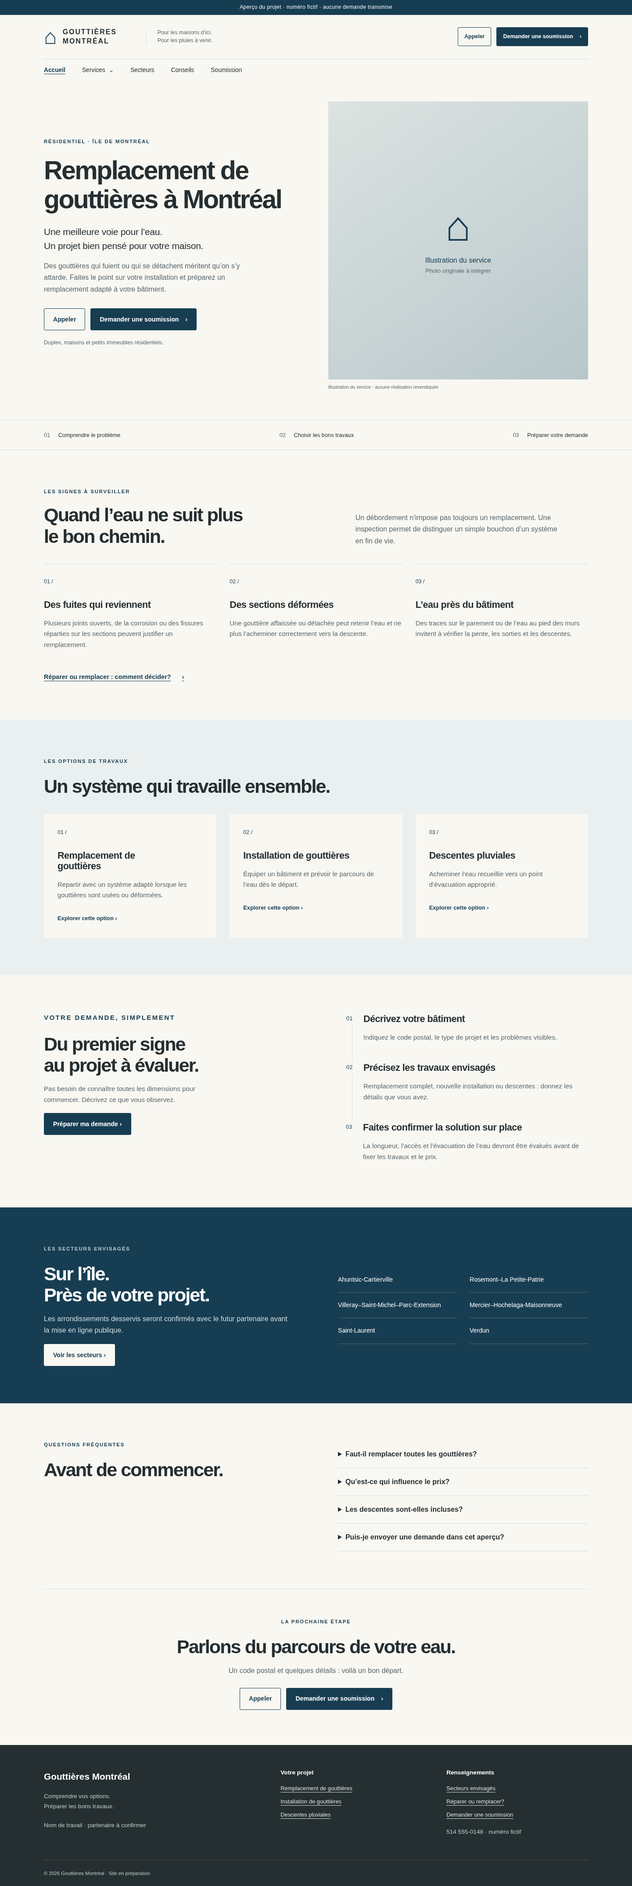
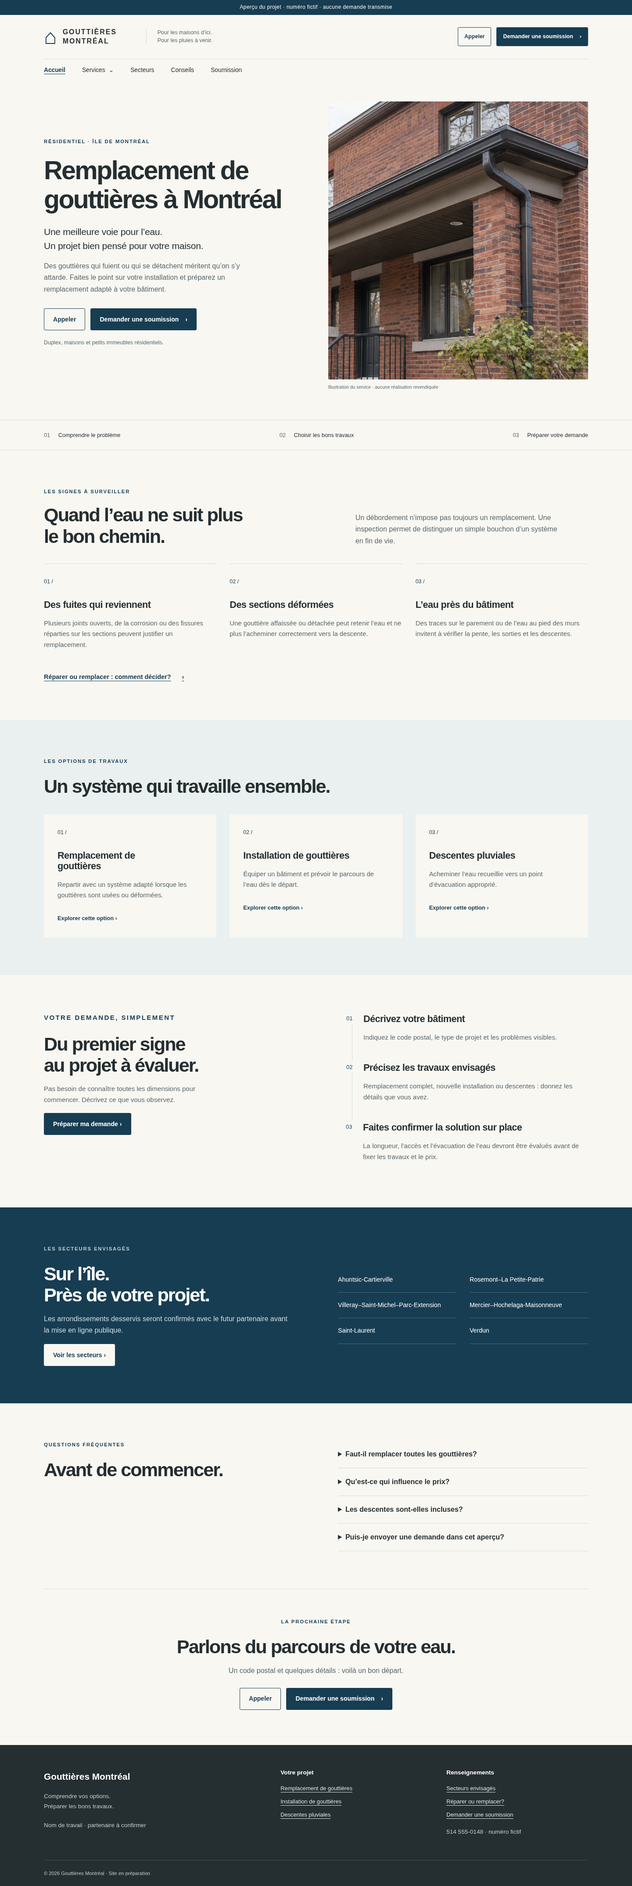
feat: integrate original gutter photos and refresh previews

Changed region(s): [[0.5, 0.0312, 0.9375, 0.2184]]

diff --git a/src/styles/global.css b/src/styles/global.css
@@ -1,3 +1,3 @@
-:root{--ink:#252e30;--blue:#173d52;--paper:#f8f7f2;--muted:#58666b;--line:#d8dedc;--soft:#eaf0ef}*{box-sizing:border-box}html{scroll-behavior:smooth;scroll-padding-bottom:110px}body{margin:0;background:var(--paper);color:var(--ink);font-family:Arial,Helvetica,sans-serif;line-height:1.65}a{color:inherit;text-underline-offset:4px}button,input,textarea,select{font:inherit}button,a,summary{-webkit-tap-highlight-color:transparent}button,summary{cursor:pointer}:focus-visible{outline:3px solid #bb6a23;outline-offset:5px}h1,h2,h3,p,figure{margin:0}h1,h2,h3{line-height:1.12;letter-spacing:-.045em}h1{font-size:clamp(2.7rem,4.1vw,4.45rem);font-weight:700}h2{font-size:clamp(2rem,3vw,3rem);font-weight:600}h3{font-size:1.35rem;letter-spacing:-.025em}p{margin:1.1rem 0;color:var(--muted)}.wrap{width:min(1240px,calc(100% - 96px));margin-inline:auto}.preview-notice{text-align:center;background:var(--blue);color:#fff;font-size:.75rem;padding:7px 16px;letter-spacing:.035em}.header-top{display:flex;align-items:center;gap:30px;padding-block:26px}.brand{display:flex;gap:12px;align-items:center;text-decoration:none;font-size:.86rem;line-height:1.3;letter-spacing:.12em}.brand strong{display:block;font-size:1.2rem;letter-spacing:.09em}.brand-mark{font-size:3rem;color:var(--blue);line-height:1}.header-note{font-size:.78rem;line-height:1.4;flex:1;margin:0;padding-left:25px;border-left:1px solid var(--line)}.actions{display:flex;flex-wrap:wrap;gap:12px;align-items:center}.button{display:inline-flex;align-items:center;justify-content:center;gap:15px;min-height:50px;padding:13px 20px;border:1px solid var(--blue);border-radius:3px;font-size:.88rem;font-weight:600;text-decoration:none;line-height:1.35}.button:hover{filter:brightness(.9)}.primary{background:var(--blue);color:white}.outline{background:transparent;color:var(--blue)}.light{background:var(--paper);color:var(--blue);border-color:var(--paper)}.compact .button{min-height:43px;font-size:.78rem;padding:10px 14px}.compact .phone-number{display:none}nav{display:flex;gap:38px;align-items:center;border-top:1px solid var(--line);padding-block:14px;font-size:.86rem}nav>a,summary{text-decoration:none}nav a[aria-current=page]{font-weight:700;color:var(--blue);text-decoration:underline}.services-menu{position:relative}.services-menu summary{list-style:none}.services-menu summary:after{content:'⌄';margin-left:8px}.services-menu>div{position:absolute;z-index:5;background:var(--paper);border:1px solid var(--line);padding:12px;min-width:255px;top:38px;box-shadow:0 12px 25px #173d5215}.services-menu a{display:block;padding:9px;text-decoration:none}.services-menu a:hover{background:var(--soft)}.hero{display:grid;grid-template-columns:1fr 1fr;gap:55px;align-items:center;padding-block:45px 65px}.eyebrow{color:var(--blue);font-weight:700;font-size:.71rem;letter-spacing:.16em;margin:0 0 23px}.hero h1{max-width:570px}.hero-copy>p:not(.eyebrow){max-width:480px}.lead{font-size:1.32rem;line-height:1.5;color:var(--ink);letter-spacing:-.015em;margin-top:25px}.hero .actions{margin-top:30px}.hero .actions .phone-number{display:none}.fine{font-size:.78rem}.service-photo{min-width:0;position:relative}.service-photo picture,.service-photo img{display:block;width:100%}.service-photo img{object-fit:cover;aspect-ratio:1/1.07;object-position:67% center;border-radius:3px}.service-photo figcaption{font-size:.65rem;margin-top:9px;color:var(--muted)}.photo-pending{aspect-ratio:1/1.07;background:linear-gradient(145deg,#dce3e1,#b8c7cb);display:flex;flex-direction:column;justify-content:center;align-items:center;border-radius:3px}.photo-pending>span{font-size:6rem;line-height:1;color:var(--blue)}.photo-pending p{color:var(--blue);margin-bottom:0}.photo-pending small{color:var(--muted)}.principles{border-block:1px solid var(--line)}.principles>.wrap{display:flex;justify-content:space-between;gap:20px;padding-block:23px}.principles span{color:var(--muted);font-size:.8rem}.principles strong{color:var(--ink);margin-left:15px;font-weight:500}.section{padding-block:85px}.section-heading{display:grid;grid-template-columns:1.15fr 1fr;gap:0 100px;align-items:end;margin-bottom:38px}.section-heading .eyebrow{grid-column:1/-1;margin-bottom:20px}.section-heading p:not(.eyebrow){margin:0;max-width:460px}.cards{display:grid;grid-template-columns:repeat(3,1fr);gap:30px}.cards article{padding:30px 0;border-top:1px solid var(--line)}.number{font-size:.78rem;display:block;color:var(--blue);margin-bottom:30px}.cards h3{max-width:250px}.cards p{font-size:.93rem}.text-link{display:inline-flex;gap:25px;align-items:center;font-size:.9rem;color:var(--blue);font-weight:600}.tinted{background:var(--soft)}.service-cards{margin-top:40px}.service-cards>a{padding:30px;background:var(--paper);border-radius:3px;text-decoration:none;border:1px solid transparent}.service-cards>a:hover{border-color:var(--blue)}.service-cards .text-link{margin-top:12px;font-size:.8rem}.steps,.sectors-intro,.faq{display:grid;grid-template-columns:1fr 1fr;gap:100px}.steps>div>p{max-width:400px}.steps ol{margin:0;padding-left:32px;counter-reset:steps;list-style:none}.steps li{position:relative;padding:0 0 24px 25px;border-left:1px solid var(--line);counter-increment:steps}.steps li:before{content:'0' counter(steps);position:absolute;left:-17px;top:0;background:var(--paper);color:var(--blue);font-size:.8rem;padding:3px}.steps li:last-child{border:0;padding-bottom:0}.steps li h3{padding-top:3px}.steps p{font-size:.94rem}.blue{background:var(--blue);color:white}.blue p{color:#cedde2}.blue .eyebrow{color:#b9ced8}.sector-list{list-style:none;padding:0;margin:0;display:grid;grid-template-columns:1fr 1fr;gap:0 30px;align-content:center}.sector-list li{padding:17px 0;border-bottom:1px solid #ffffff38;font-size:.88rem}.faq details{border-bottom:1px solid var(--line);padding:19px 0}.faq summary{font-weight:600;line-height:1.5;padding-right:20px}.faq details p{font-size:.92rem}.closing{border-top:1px solid var(--line);padding-block:65px 80px;text-align:center}.closing .actions{justify-content:center;margin-top:25px}.closing .phone-number{display:none}footer{background:#252e30;color:white;padding-top:55px}.footer-grid{display:grid;grid-template-columns:1.5fr 1fr 1fr;gap:55px}footer p,footer small{color:#c0cdcf;font-size:.85rem}.footer-brand{font-size:1.3rem;font-weight:600;text-decoration:none}footer h2{font-size:.85rem;letter-spacing:0;margin-bottom:18px}footer .footer-grid>div>a:not(.footer-brand){display:block;font-size:.8rem;color:#dbe4e5;margin-block:9px}.footer-bottom{border-top:1px solid #ffffff25;margin-top:35px;padding-block:20px;font-size:.7rem;color:#c0cdcf}.mobile-actions{display:none}.skip{position:absolute;left:12px;top:-100px;padding:12px;background:white;z-index:20}.skip:focus{top:10px}dialog{border:1px solid var(--line);border-radius:5px;background:var(--paper);color:var(--ink);max-width:min(480px,90vw);padding:30px}dialog::backdrop{background:#162d3bc0}dialog h2{font-size:1.8rem}.article-head{padding-block:65px 45px;max-width:1000px}.article-head h1{max-width:850px}.article-head>p{max-width:740px}.article-layout{display:flex;gap:65px;align-items:flex-start;padding-bottom:85px}.prose{max-width:760px}.prose section{margin-bottom:42px}.prose h2,.sectors-page h2{font-size:1.8rem}.prose aside{border-top:1px solid var(--line);padding-top:35px}.article-layout>.service-photo{flex:1;min-width:30%;position:sticky;top:25px}.article-layout:has(.service-photo)>.prose{flex:1;max-width:650px}.sectors-page{padding-top:0;max-width:1000px}.sectors-page .sector-list{margin:25px 0 55px}.sectors-page li{border-color:var(--line)}.quote-layout{display:grid;grid-template-columns:1fr 1fr;gap:85px;padding-block:65px 85px}.quote-layout h1{font-size:clamp(2.6rem,4vw,4rem)}.recipient{border-top:1px solid var(--line);margin-top:35px;padding-top:25px}.recipient h2{font-size:1.2rem;letter-spacing:-.02em}.recipient p{font-size:.9rem}.form-card{background:white;border:1px solid var(--line);padding:32px;border-radius:4px}.form-notice{background:var(--soft);padding:15px;font-size:.86rem;margin-top:0}label{display:block;font-size:.88rem;font-weight:600;margin:18px 0 6px}label span{font-weight:400}input,select,textarea{display:block;width:100%;border:1px solid #849297;border-radius:3px;padding:11px;background:white;color:var(--ink)}textarea{resize:vertical}form small{font-size:.75rem;color:var(--muted)}form>.button{margin-top:23px;width:100%}button:disabled{opacity:.6;cursor:wait}#form-status:empty{display:none}#form-status{font-size:.9rem;background:var(--soft);padding:15px}.consent{display:flex;gap:10px;font-weight:400}.consent input{width:18px;flex-shrink:0;margin-top:6px}@media(min-width:1500px){.hero{padding-block:65px 80px}}@media(max-width:1000px){.wrap{width:calc(100% - 48px)}.header-note{display:none}.header-top{justify-content:space-between}.hero{gap:28px}.hero .actions{gap:10px}.section-heading{gap:0 45px}.cards{gap:20px}.service-cards>a{padding:22px}.steps,.sectors-intro,.faq{gap:40px}.quote-layout{gap:35px}.article-layout{gap:35px}.footer-grid{gap:25px}}@media(max-width:700px){body{padding-bottom:calc(82px + env(safe-area-inset-bottom))}.wrap{width:calc(100% - 40px)}.header-top{padding-block:20px}.header-top>.actions{display:none}.brand{font-size:.73rem}.brand strong{font-size:1rem}.brand-mark{font-size:2.5rem}nav{gap:0;justify-content:space-between;font-size:.76rem;padding-block:13px}.services-menu>div{left:-65px;top:32px}.hero{grid-template-columns:1fr;gap:28px;padding-block:35px}.hero h1{font-size:clamp(2.35rem,11.8vw,2.9rem);max-width:480px}.eyebrow{font-size:.64rem;margin-bottom:19px}.lead{font-size:1.16rem;margin-top:20px}.hero-copy>p{font-size:.94rem}.hero .actions{align-items:stretch}.hero .button{font-size:.78rem;padding-inline:13px}.hero .fine{font-size:.75rem}.service-photo img,.photo-pending{aspect-ratio:1.15/1}.service-photo img{object-position:68% center}.principles>.wrap{display:grid;gap:10px;padding-block:20px}.principles span{font-size:.76rem}.section{padding-block:52px}.section-heading{display:block}.section-heading>p:not(.eyebrow){margin-top:20px}.cards{grid-template-columns:1fr;gap:0}.cards article{padding-block:25px}.cards h3{max-width:none}.number{margin-bottom:18px}.cards p{margin-bottom:0}.service-cards{gap:14px;margin-top:28px}.service-cards>a{padding:25px}.service-cards .text-link{margin-top:22px}.steps,.sectors-intro,.faq{grid-template-columns:1fr;gap:35px}.steps ol{padding-left:17px}.sector-list{grid-template-columns:1fr}.sectors-intro .sector-list{grid-template-columns:1fr 1fr;gap:0 20px}.sector-list li{font-size:.8rem}.faq{gap:20px}.closing{padding-block:50px}.closing h2{font-size:2rem}.closing .button{font-size:.77rem;padding-inline:12px}.closing .actions{gap:8px}.footer-grid{grid-template-columns:1fr;gap:30px}.footer-grid>div{border-bottom:1px solid #ffffff25;padding-bottom:20px}.footer-bottom{margin-top:10px}.mobile-actions{position:fixed;bottom:0;left:0;right:0;z-index:10;display:block;background:var(--paper);border-top:1px solid var(--line);padding:12px 15px calc(12px + env(safe-area-inset-bottom))}.mobile-actions .actions{display:grid;grid-template-columns:.65fr 1.35fr;gap:10px}.mobile-actions .button{min-height:48px;font-size:.76rem;padding:10px 8px}.article-head{padding-block:40px 30px}.article-head h1{font-size:2.65rem}.article-layout{display:flex;flex-direction:column;padding-bottom:55px;gap:25px}.article-layout>.service-photo{position:static;width:100%;order:-1}.prose h2,.sectors-page h2{font-size:1.65rem}.prose .actions{align-items:stretch;flex-direction:column}.prose .phone-number{display:none}.quote-layout{grid-template-columns:1fr;gap:30px;padding-block:40px 55px}.form-card{padding:23px}.sectors-page{padding-top:0}.sectors-page .sector-list{margin-top:20px}}@media(prefers-reduced-motion:reduce){html{scroll-behavior:auto}}
+:root{--ink:#252e30;--blue:#173d52;--paper:#f8f7f2;--muted:#58666b;--line:#d8dedc;--soft:#eaf0ef}*{box-sizing:border-box}html{scroll-behavior:smooth;scroll-padding-bottom:110px}body{margin:0;background:var(--paper);color:var(--ink);font-family:Arial,Helvetica,sans-serif;line-height:1.65}a{color:inherit;text-underline-offset:4px}button,input,textarea,select{font:inherit}button,a,summary{-webkit-tap-highlight-color:transparent}button,summary{cursor:pointer}:focus-visible{outline:3px solid #bb6a23;outline-offset:5px}h1,h2,h3,p,figure{margin:0}h1,h2,h3{line-height:1.12;letter-spacing:-.045em}h1{font-size:clamp(2.7rem,4.1vw,4.45rem);font-weight:700}h2{font-size:clamp(2rem,3vw,3rem);font-weight:600}h3{font-size:1.35rem;letter-spacing:-.025em}p{margin:1.1rem 0;color:var(--muted)}.wrap{width:min(1240px,calc(100% - 96px));margin-inline:auto}.preview-notice{text-align:center;background:var(--blue);color:#fff;font-size:.75rem;padding:7px 16px;letter-spacing:.035em}.header-top{display:flex;align-items:center;gap:30px;padding-block:26px}.brand{display:flex;gap:12px;align-items:center;text-decoration:none;font-size:.86rem;line-height:1.3;letter-spacing:.12em}.brand strong{display:block;font-size:1.2rem;letter-spacing:.09em}.brand-mark{font-size:3rem;color:var(--blue);line-height:1}.header-note{font-size:.78rem;line-height:1.4;flex:1;margin:0;padding-left:25px;border-left:1px solid var(--line)}.actions{display:flex;flex-wrap:wrap;gap:12px;align-items:center}.button{display:inline-flex;align-items:center;justify-content:center;gap:15px;min-height:50px;padding:13px 20px;border:1px solid var(--blue);border-radius:3px;font-size:.88rem;font-weight:600;text-decoration:none;line-height:1.35}.button:hover{filter:brightness(.9)}.primary{background:var(--blue);color:white}.outline{background:transparent;color:var(--blue)}.light{background:var(--paper);color:var(--blue);border-color:var(--paper)}.compact .button{min-height:43px;font-size:.78rem;padding:10px 14px}.compact .phone-number{display:none}nav{display:flex;gap:38px;align-items:center;border-top:1px solid var(--line);padding-block:14px;font-size:.86rem}nav>a,summary{text-decoration:none}nav a[aria-current=page]{font-weight:700;color:var(--blue);text-decoration:underline}.services-menu{position:relative}.services-menu summary{list-style:none}.services-menu summary:after{content:'⌄';margin-left:8px}.services-menu>div{position:absolute;z-index:5;background:var(--paper);border:1px solid var(--line);padding:12px;min-width:255px;top:38px;box-shadow:0 12px 25px #173d5215}.services-menu a{display:block;padding:9px;text-decoration:none}.services-menu a:hover{background:var(--soft)}.hero{display:grid;grid-template-columns:1fr 1fr;gap:55px;align-items:center;padding-block:45px 65px}.eyebrow{color:var(--blue);font-weight:700;font-size:.71rem;letter-spacing:.16em;margin:0 0 23px}.hero h1{max-width:570px}.hero-copy>p:not(.eyebrow){max-width:480px}.lead{font-size:1.32rem;line-height:1.5;color:var(--ink);letter-spacing:-.015em;margin-top:25px}.hero .actions{margin-top:30px}.hero .actions .phone-number{display:none}.fine{font-size:.78rem}.service-photo{min-width:0;position:relative}.service-photo picture,.service-photo img{display:block;width:100%}.service-photo img{height:auto;object-fit:cover;aspect-ratio:1/1.07;object-position:67% center;border-radius:3px}.service-photo figcaption{font-size:.65rem;margin-top:9px;color:var(--muted)}.photo-pending{aspect-ratio:1/1.07;background:linear-gradient(145deg,#dce3e1,#b8c7cb);display:flex;flex-direction:column;justify-content:center;align-items:center;border-radius:3px}.photo-pending>span{font-size:6rem;line-height:1;color:var(--blue)}.photo-pending p{color:var(--blue);margin-bottom:0}.photo-pending small{color:var(--muted)}.principles{border-block:1px solid var(--line)}.principles>.wrap{display:flex;justify-content:space-between;gap:20px;padding-block:23px}.principles span{color:var(--muted);font-size:.8rem}.principles strong{color:var(--ink);margin-left:15px;font-weight:500}.section{padding-block:85px}.section-heading{display:grid;grid-template-columns:1.15fr 1fr;gap:0 100px;align-items:end;margin-bottom:38px}.section-heading .eyebrow{grid-column:1/-1;margin-bottom:20px}.section-heading p:not(.eyebrow){margin:0;max-width:460px}.cards{display:grid;grid-template-columns:repeat(3,1fr);gap:30px}.cards article{padding:30px 0;border-top:1px solid var(--line)}.number{font-size:.78rem;display:block;color:var(--blue);margin-bottom:30px}.cards h3{max-width:250px}.cards p{font-size:.93rem}.text-link{display:inline-flex;gap:25px;align-items:center;font-size:.9rem;color:var(--blue);font-weight:600}.tinted{background:var(--soft)}.service-cards{margin-top:40px}.service-cards>a{padding:30px;background:var(--paper);border-radius:3px;text-decoration:none;border:1px solid transparent}.service-cards>a:hover{border-color:var(--blue)}.service-cards .text-link{margin-top:12px;font-size:.8rem}.steps,.sectors-intro,.faq{display:grid;grid-template-columns:1fr 1fr;gap:100px}.steps>div>p{max-width:400px}.steps ol{margin:0;padding-left:32px;counter-reset:steps;list-style:none}.steps li{position:relative;padding:0 0 24px 25px;border-left:1px solid var(--line);counter-increment:steps}.steps li:before{content:'0' counter(steps);position:absolute;left:-17px;top:0;background:var(--paper);color:var(--blue);font-size:.8rem;padding:3px}.steps li:last-child{border:0;padding-bottom:0}.steps li h3{padding-top:3px}.steps p{font-size:.94rem}.blue{background:var(--blue);color:white}.blue p{color:#cedde2}.blue .eyebrow{color:#b9ced8}.sector-list{list-style:none;padding:0;margin:0;display:grid;grid-template-columns:1fr 1fr;gap:0 30px;align-content:center}.sector-list li{padding:17px 0;border-bottom:1px solid #ffffff38;font-size:.88rem}.faq details{border-bottom:1px solid var(--line);padding:19px 0}.faq summary{font-weight:600;line-height:1.5;padding-right:20px}.faq details p{font-size:.92rem}.closing{border-top:1px solid var(--line);padding-block:65px 80px;text-align:center}.closing .actions{justify-content:center;margin-top:25px}.closing .phone-number{display:none}footer{background:#252e30;color:white;padding-top:55px}.footer-grid{display:grid;grid-template-columns:1.5fr 1fr 1fr;gap:55px}footer p,footer small{color:#c0cdcf;font-size:.85rem}.footer-brand{font-size:1.3rem;font-weight:600;text-decoration:none}footer h2{font-size:.85rem;letter-spacing:0;margin-bottom:18px}footer .footer-grid>div>a:not(.footer-brand){display:block;font-size:.8rem;color:#dbe4e5;margin-block:9px}.footer-bottom{border-top:1px solid #ffffff25;margin-top:35px;padding-block:20px;font-size:.7rem;color:#c0cdcf}.mobile-actions{display:none}.skip{position:absolute;left:12px;top:-100px;padding:12px;background:white;z-index:20}.skip:focus{top:10px}dialog{border:1px solid var(--line);border-radius:5px;background:var(--paper);color:var(--ink);max-width:min(480px,90vw);padding:30px}dialog::backdrop{background:#162d3bc0}dialog h2{font-size:1.8rem}.article-head{padding-block:65px 45px;max-width:1000px}.article-head h1{max-width:850px}.article-head>p{max-width:740px}.article-layout{display:flex;gap:65px;align-items:flex-start;padding-bottom:85px}.prose{max-width:760px}.prose section{margin-bottom:42px}.prose h2,.sectors-page h2{font-size:1.8rem}.prose aside{border-top:1px solid var(--line);padding-top:35px}.article-layout>.service-photo{flex:1;min-width:30%;position:sticky;top:25px}.article-layout:has(.service-photo)>.prose{flex:1;max-width:650px}.sectors-page{padding-top:0;max-width:1000px}.sectors-page .sector-list{margin:25px 0 55px}.sectors-page li{border-color:var(--line)}.quote-layout{display:grid;grid-template-columns:1fr 1fr;gap:85px;padding-block:65px 85px}.quote-layout h1{font-size:clamp(2.6rem,4vw,4rem)}.recipient{border-top:1px solid var(--line);margin-top:35px;padding-top:25px}.recipient h2{font-size:1.2rem;letter-spacing:-.02em}.recipient p{font-size:.9rem}.form-card{background:white;border:1px solid var(--line);padding:32px;border-radius:4px}.form-notice{background:var(--soft);padding:15px;font-size:.86rem;margin-top:0}label{display:block;font-size:.88rem;font-weight:600;margin:18px 0 6px}label span{font-weight:400}input,select,textarea{display:block;width:100%;border:1px solid #849297;border-radius:3px;padding:11px;background:white;color:var(--ink)}textarea{resize:vertical}form small{font-size:.75rem;color:var(--muted)}form>.button{margin-top:23px;width:100%}button:disabled{opacity:.6;cursor:wait}#form-status:empty{display:none}#form-status{font-size:.9rem;background:var(--soft);padding:15px}.consent{display:flex;gap:10px;font-weight:400}.consent input{width:18px;flex-shrink:0;margin-top:6px}@media(min-width:1500px){.hero{padding-block:65px 80px}}@media(max-width:1000px){.wrap{width:calc(100% - 48px)}.header-note{display:none}.header-top{justify-content:space-between}.hero{gap:28px}.hero .actions{gap:10px}.section-heading{gap:0 45px}.cards{gap:20px}.service-cards>a{padding:22px}.steps,.sectors-intro,.faq{gap:40px}.quote-layout{gap:35px}.article-layout{gap:35px}.footer-grid{gap:25px}}@media(max-width:700px){body{padding-bottom:calc(82px + env(safe-area-inset-bottom))}.wrap{width:calc(100% - 40px)}.header-top{padding-block:20px}.header-top>.actions{display:none}.brand{font-size:.73rem}.brand strong{font-size:1rem}.brand-mark{font-size:2.5rem}nav{gap:0;justify-content:space-between;font-size:.76rem;padding-block:13px}.services-menu>div{left:-65px;top:32px}.hero{grid-template-columns:1fr;gap:28px;padding-block:35px}.hero h1{font-size:clamp(2.35rem,11.8vw,2.9rem);max-width:480px}.eyebrow{font-size:.64rem;margin-bottom:19px}.lead{font-size:1.16rem;margin-top:20px}.hero-copy>p{font-size:.94rem}.hero .actions{align-items:stretch}.hero .button{font-size:.78rem;padding-inline:13px}.hero .fine{font-size:.75rem}.service-photo img,.photo-pending{aspect-ratio:1.15/1}.service-photo img{object-position:68% center}.principles>.wrap{display:grid;gap:10px;padding-block:20px}.principles span{font-size:.76rem}.section{padding-block:52px}.section-heading{display:block}.section-heading>p:not(.eyebrow){margin-top:20px}.cards{grid-template-columns:1fr;gap:0}.cards article{padding-block:25px}.cards h3{max-width:none}.number{margin-bottom:18px}.cards p{margin-bottom:0}.service-cards{gap:14px;margin-top:28px}.service-cards>a{padding:25px}.service-cards .text-link{margin-top:22px}.steps,.sectors-intro,.faq{grid-template-columns:1fr;gap:35px}.steps ol{padding-left:17px}.sector-list{grid-template-columns:1fr}.sectors-intro .sector-list{grid-template-columns:1fr 1fr;gap:0 20px}.sector-list li{font-size:.8rem}.faq{gap:20px}.closing{padding-block:50px}.closing h2{font-size:2rem}.closing .button{font-size:.77rem;padding-inline:12px}.closing .actions{gap:8px}.footer-grid{grid-template-columns:1fr;gap:30px}.footer-grid>div{border-bottom:1px solid #ffffff25;padding-bottom:20px}.footer-bottom{margin-top:10px}.mobile-actions{position:fixed;bottom:0;left:0;right:0;z-index:10;display:block;background:var(--paper);border-top:1px solid var(--line);padding:12px 15px calc(12px + env(safe-area-inset-bottom))}.mobile-actions .actions{display:grid;grid-template-columns:.65fr 1.35fr;gap:10px}.mobile-actions .button{min-height:48px;font-size:.76rem;padding:10px 8px}.article-head{padding-block:40px 30px}.article-head h1{font-size:2.65rem}.article-layout{display:flex;flex-direction:column;padding-bottom:55px;gap:25px}.article-layout>.service-photo{position:static;width:100%;order:-1}.prose h2,.sectors-page h2{font-size:1.65rem}.prose .actions{align-items:stretch;flex-direction:column}.prose .phone-number{display:none}.quote-layout{grid-template-columns:1fr;gap:30px;padding-block:40px 55px}.form-card{padding:23px}.sectors-page{padding-top:0}.sectors-page .sector-list{margin-top:20px}}@media(prefers-reduced-motion:reduce){html{scroll-behavior:auto}}
 
 .brand-name{display:block;max-width:160px;font-weight:700;font-size:1rem;line-height:1.3;text-transform:uppercase;letter-spacing:.12em}

diff --git a/README.md b/README.md
@@ -27,17 +27,17 @@ Les tests navigateur utilisent Chromium à `/usr/bin/chromium`. Adapter `playwri
 
 Modifier `src/config.mjs` : `business.name`, `phone`, `services`, `sectors`, `images`, `mode`, `publicUrl`, `indexable` et `quote`. Le nom est un nom de travail et les secteurs proposés sont à confirmer avec le partenaire. Les textes éditoriaux des pages demeurent dans `src/pages/`.
 
-### Images originales — intégration en attente
+### Images originales
 
-Les deux images ont été montrées dans la conversation mais leurs fichiers n’étaient pas disponibles dans l’environnement d’exécution. Aucun visuel provenant d’une autre entreprise n’a été utilisé. Les cadres d’aperçu indiquent explicitement la photo manquante.
+Les deux originaux sont conservés dans `assets/originals/duplex.png` et `assets/originals/downspout.png`. Les liens fournis dans `assets/originals/README.md` documentent leur provenance. Aucun visuel provenant d’une autre entreprise n’a été utilisé.
 
-Lorsque les originaux sont accessibles :
+Pour régénérer les versions optimisées :
 
 ```sh
-npm run images -- /chemin/duplex.png /chemin/gouttiere-blanche.png
+npm run images -- assets/originals/duplex.png assets/originals/downspout.png
 ```
 
-Le script produit quatre WebP dans `public/images/` : `duplex.webp`, `duplex-mobile.webp`, `downspout.webp`, `downspout-mobile.webp`. Vérifier les recadrages (point d’intérêt à droite), puis mettre `images.ready: true`. Les textes alternatifs sont centralisés. La photo du duplex est prioritaire sur l’accueil; celle de la descente apparaît sur la page correspondante. Les visuels sont présentés comme illustrations, sans revendication de réalisation.
+Le script produit quatre WebP dans `public/images/` : `duplex.webp`, `duplex-mobile.webp`, `downspout.webp`, `downspout-mobile.webp`. Les versions ordinateur pèsent environ 211 et 166 Kio; les recadrages mobiles environ 92 et 68 Kio. `images.ready` est activé. Les textes alternatifs sont centralisés. La photo du duplex est prioritaire sur l’accueil; celle de la descente apparaît sur la page correspondante. Les visuels sont présentés comme illustrations, sans revendication de réalisation.
 
 ## Aperçu et indexation
 
@@ -83,6 +83,6 @@ Avant d’activer l’envoi réel :
 
 ## Validation et transfert
 
-Voir `docs/validation.md` pour les contrôles et limites. Captures de l’accueil : `docs/accueil-mobile.png` et `docs/accueil-desktop.png`. Elles reflètent les cadres provisoires tant que les fichiers originaux manquent. La navigation s’inspire seulement du regroupement Services / Secteurs du site de référence; les contenus, styles et composants sont propres au projet.
+Voir `docs/validation.md` pour les contrôles et limites. Captures de l’accueil : `docs/accueil-mobile.png` et `docs/accueil-desktop.png`. Elles présentent les images originales optimisées. La navigation s’inspire seulement du regroupement Services / Secteurs du site de référence; les contenus, styles et composants sont propres au projet.
 
-Avant mise en ligne : revue de la PR, photos originales, partenaire et couverture confirmés, vrai numéro testé, destinataire nommé, service d’envoi et règles de confidentialité validés, URL publique configurée, captures renouvelées, validation finale et autorisation de publier. Aucun déploiement automatique dans ce dépôt.
+Avant mise en ligne : revue de la PR, partenaire et couverture confirmés, vrai numéro testé, destinataire nommé, service d’envoi et règles de confidentialité validés, URL publique configurée, captures renouvelées, validation finale et autorisation de publier. Aucun déploiement automatique dans ce dépôt.

diff --git a/docs/pull-request.md b/docs/pull-request.md
@@ -4,7 +4,7 @@ Le dépôt vide reçoit un site statique en français québécois pour présente
 
 La configuration centralise le nom, les services, les secteurs et les coordonnées. Le mode aperçu affiche un numéro fictif, simule les demandes sans transfert de données et bloque l’indexation. Les appels et le formulaire ont des conditions d’activation distinctes; la conversion de soumission requiert une réponse réelle confirmée. Le README explique le transfert au partenaire, l’envoi, le suivi téléphonique, les canoniques et le sitemap public.
 
-Limite de cette version : les deux photos visibles dans le chat ne sont pas accessibles comme fichiers dans l’environnement. Des cadres explicites restent affichés; le script WebP et les recadrages responsive sont prêts. À intégrer avant validation finale.
+Les deux images originales sont intégrées : duplex en brique sur l’accueil et gouttière blanche sur la page des descentes pluviales. Les quatre fichiers WebP comprennent des recadrages mobiles; les originaux sont conservés dans le dépôt.
 
 ## Aperçu local
 
@@ -22,7 +22,7 @@ Compilation réussie, 4 tests de configuration et 8 tests Chromium réussis, con
 
 ## Captures
 
-Captures provisoires avec emplacements des images :
+Captures de l’accueil avec les images originales optimisées :
 
 ![Accueil sur ordinateur](accueil-desktop.png)
 ![Accueil sur mobile](accueil-mobile.png)

diff --git a/docs/validation.md b/docs/validation.md
@@ -10,7 +10,7 @@ Date : 9 novembre 2026. Node 24.22.1, Astro 5, Chromium local via Playwright.
 
 ## Limites à lever
 
-Les originaux des photos sont visibles dans le chat mais indisponibles comme fichiers téléchargeables. Les cadres provisoires sont explicites; le script d’optimisation et les composants responsive sont prêts. La qualité des recadrages et le poids final des WebP devront être vérifiés lorsque les fichiers seront intégrés.
+Les deux originaux ajoutés au dépôt ont été intégrés : duplex en brique à l’accueil, gros plan blanc sur la page des descentes pluviales. Quatre WebP sont servis localement, avec recadrages mobiles et textes alternatifs descriptifs. Les captures mobile et ordinateur ont été renouvelées après intégration.
 
 L’accès GitHub en écriture a été rétabli. La branche `feat/site-gouttieres-montreal` a été rattachée au commit initial de `main` et poussée. La description de PR figure dans `docs/pull-request.md`.
 
